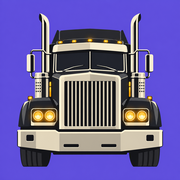
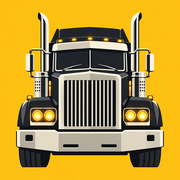
Значок порту: жовтий варіант Kenworth (Iconі.png), заставка запуску — у тон тла

diff --git a/web/vite.config.ts b/web/vite.config.ts
@@ -58,7 +58,7 @@ function gameFiles(): Plugin {
 interface Entry {
   title: string;
   description: string;
-  /** Префікс іконок у public/ (icon-192.png…); значок спільний для обох ігор — Kenworth на фіолетовому тлі. */
+  /** Префікс іконок у public/ (icon-192.png…); значок спільний для обох ігор — Kenworth на жовтому тлі. */
   icon: string;
 }
 const ENTRIES: Record<string, Entry> = {
